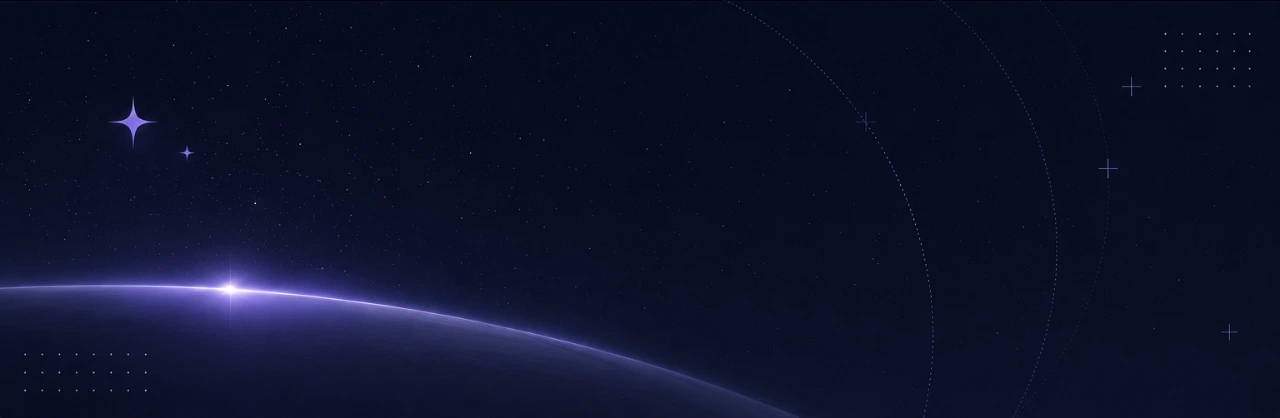
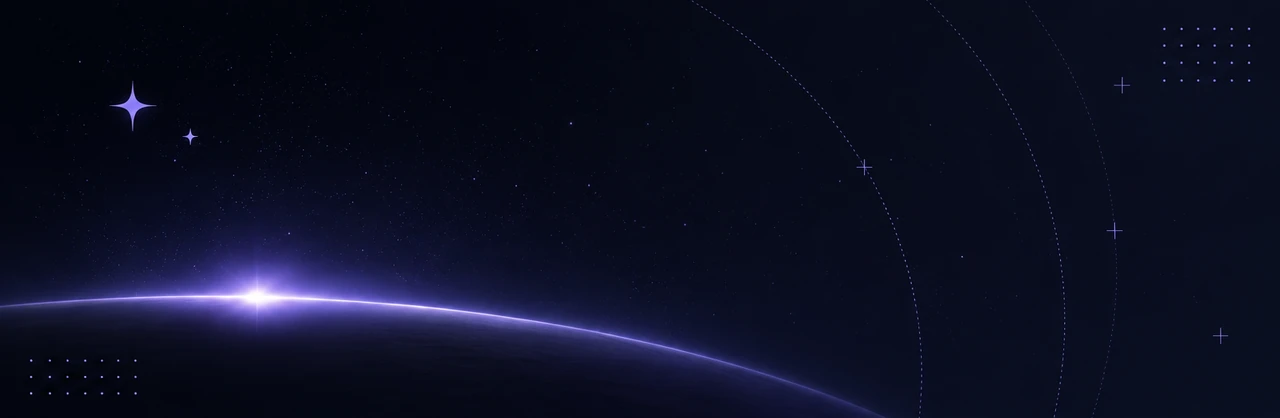
Regenerate both heroes as a matched pair, violet on what glows
The dark hero keeps space and the planet dark and spends the violet on
what glows - the limb, the flare, the drawn arcs. The light hero had the
grammar inverted: the glow was white and the violet was painted on the
planet body itself, which is why every raster-level attempt to
strengthen its accents read as a pale wash. Both images are regenerated
at the source as a matched pair: same composition in both modes, the
violet in the glowing limb line and the linework, the ground quiet. The
light ground lands on the same pale value as before (238,237,247), so
the site's fade into --bg still blends.

Verified on the rebuilt site in light and dark at desktop and phone
widths; the accents and the limb read clearly in both. Snapshots move by
the embedded data-uri lengths; layout checks and the full gate are
green.

Claude-Session: https://claude.ai/code/session_0142R79tnhdrGbKWqzvhDDmV

diff --git a/crates/mirzam-cli/tests/snapshots/pitch.html b/crates/mirzam-cli/tests/snapshots/pitch.html
@@ -1,6 +1,6 @@
 <section class="slide" data-index="0">
 <div class="grid" style='grid-template-columns:1fr;grid-template-rows:1fr;grid-template-areas:"main"'>
-<div class="pane pane-main bleed mz-bleed-t mz-bleed-r mz-bleed-b mz-bleed-l has-bg bg-text-dark" data-pane="main" style="grid-area:main"><img class="mz-bg mz-bg-light" src="<data-uri len=18815>" alt="" style="object-fit:cover;object-position:center;"><img class="mz-bg mz-bg-dark" src="<data-uri len=33015>" alt="" style="object-fit:cover;object-position:center;"><div class="mz-bg-content"><h1 class="title-slide">Slides that live in<br>your repository</h1>
+<div class="pane pane-main bleed mz-bleed-t mz-bleed-r mz-bleed-b mz-bleed-l has-bg bg-text-dark" data-pane="main" style="grid-area:main"><img class="mz-bg mz-bg-light" src="<data-uri len=19015>" alt="" style="object-fit:cover;object-position:center;"><img class="mz-bg mz-bg-dark" src="<data-uri len=27047>" alt="" style="object-fit:cover;object-position:center;"><div class="mz-bg-content"><h1 class="title-slide">Slides that live in<br>your repository</h1>
 <p>Plain Markdown in. Presentation-grade decks out.</p>
 </div></div>
 </div>

diff --git a/crates/mirzam-cli/tests/snapshots/04-components.html b/crates/mirzam-cli/tests/snapshots/04-components.html
@@ -239,7 +239,7 @@ is rewritten into this, so a README keeps its logo</li>
 <li><code>text=dark</code> takes the theme's own ink, which flips with it</li>
 </ul>
 </div>
-<div class="pane pane-hero has-bg bg-text-dark" data-pane="hero" style="grid-area:hero;display:flex;flex-direction:column;justify-content:center"><img class="mz-bg mz-bg-light" src="<data-uri len=18815>" alt="" style="object-fit:cover;object-position:center;"><img class="mz-bg mz-bg-dark" src="<data-uri len=33015>" alt="" style="object-fit:cover;object-position:center;"><div class="mz-bg-content"><h3>Press <code>D</code></h3>
+<div class="pane pane-hero has-bg bg-text-dark" data-pane="hero" style="grid-area:hero;display:flex;flex-direction:column;justify-content:center"><img class="mz-bg mz-bg-light" src="<data-uri len=19015>" alt="" style="object-fit:cover;object-position:center;"><img class="mz-bg mz-bg-dark" src="<data-uri len=27047>" alt="" style="object-fit:cover;object-position:center;"><div class="mz-bg-content"><h3>Press <code>D</code></h3>
 <p>The art changes with the deck, not with the laptop.</p>
 </div></div>
 </div>

diff --git a/CHANGELOG.md b/CHANGELOG.md
@@ -79,14 +79,15 @@ markup**. See [docs/development.md](docs/development.md#versioning) for the poli
   same warning the other reserved keys give.
 
 ### Fixed
-- **The light hero's violet accents can now be seen.** The dotted arcs, the
-  crosses and the dot grids in `mirzam-hero-light.webp` sat a few levels above
-  the pale ground and all but vanished on the landing page, while dark mode
-  showed the whole composition. The faint marks were deepened first; then the
-  planet limb, which is all a phone's narrow crop shows of the art, got its
-  violet deepened too — the flare and the ground are untouched, so nothing
-  behind text got busier. Look at the site header at `/next/` in light mode,
-  on a phone especially.
+- **The light hero now spends its violet the way the dark one does.** The
+  dark art keeps space and the planet dark and puts the violet on what glows
+  — the limb, the flare, the drawn arcs. The light art had it inverted: the
+  glow was white and the violet sat on the planet itself, which is why its
+  accents read as a pale wash however much they were strengthened. Both
+  heroes are regenerated at the source as a matched pair — same composition
+  in both modes, pale space and white light, the violet in the glowing limb
+  and the linework, the ground quiet. Look at the site header at `/next/`
+  in either mode.
 - **The rule under a section heading is a gradient in light mode too.** Its
   pale end was `#8b7cff`, close enough to the `#6557d9` it starts from that
   the ramp read as one flat colour; it now ends at `#c0b7ff`, the same pale
